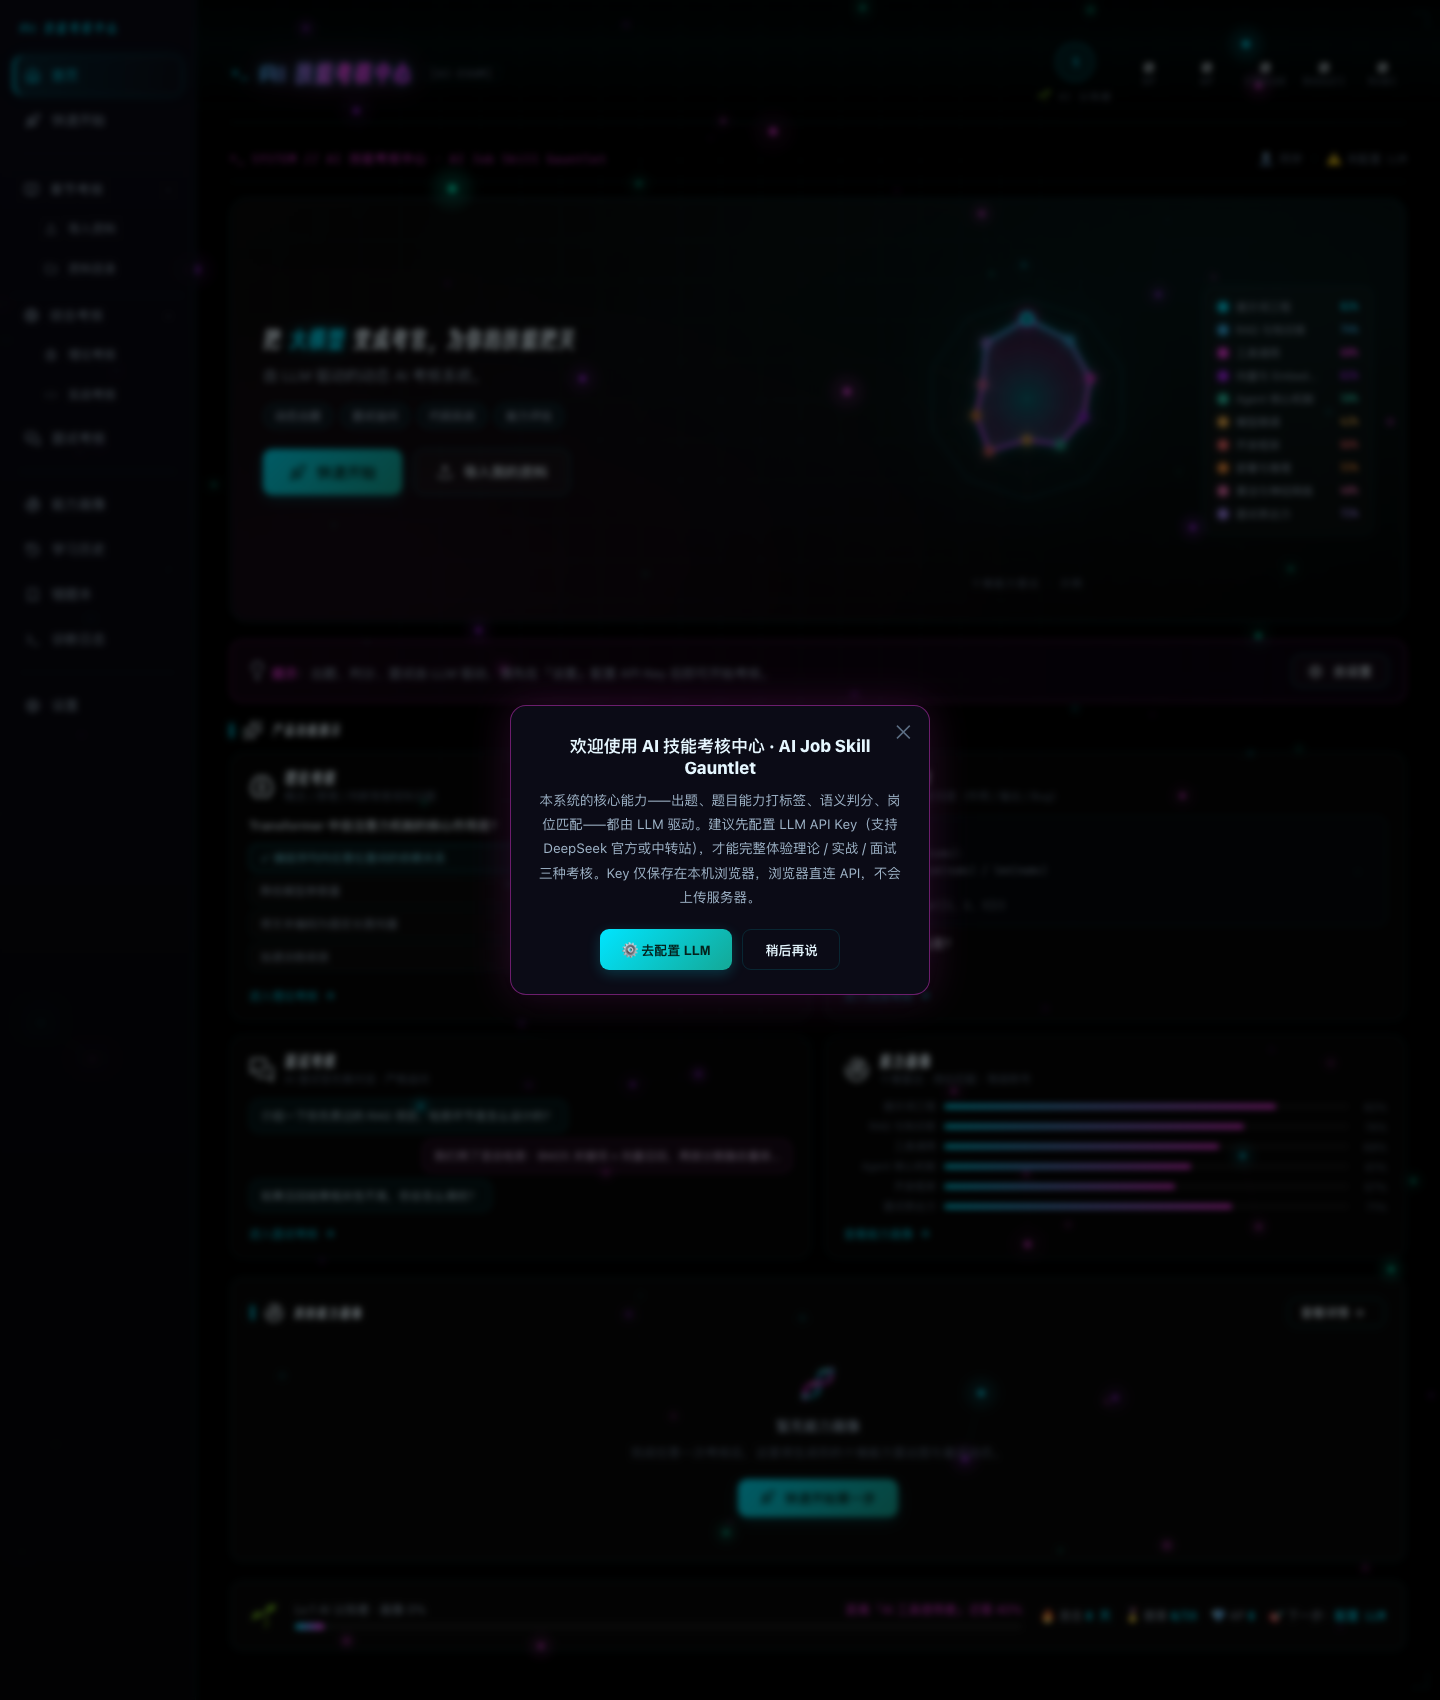
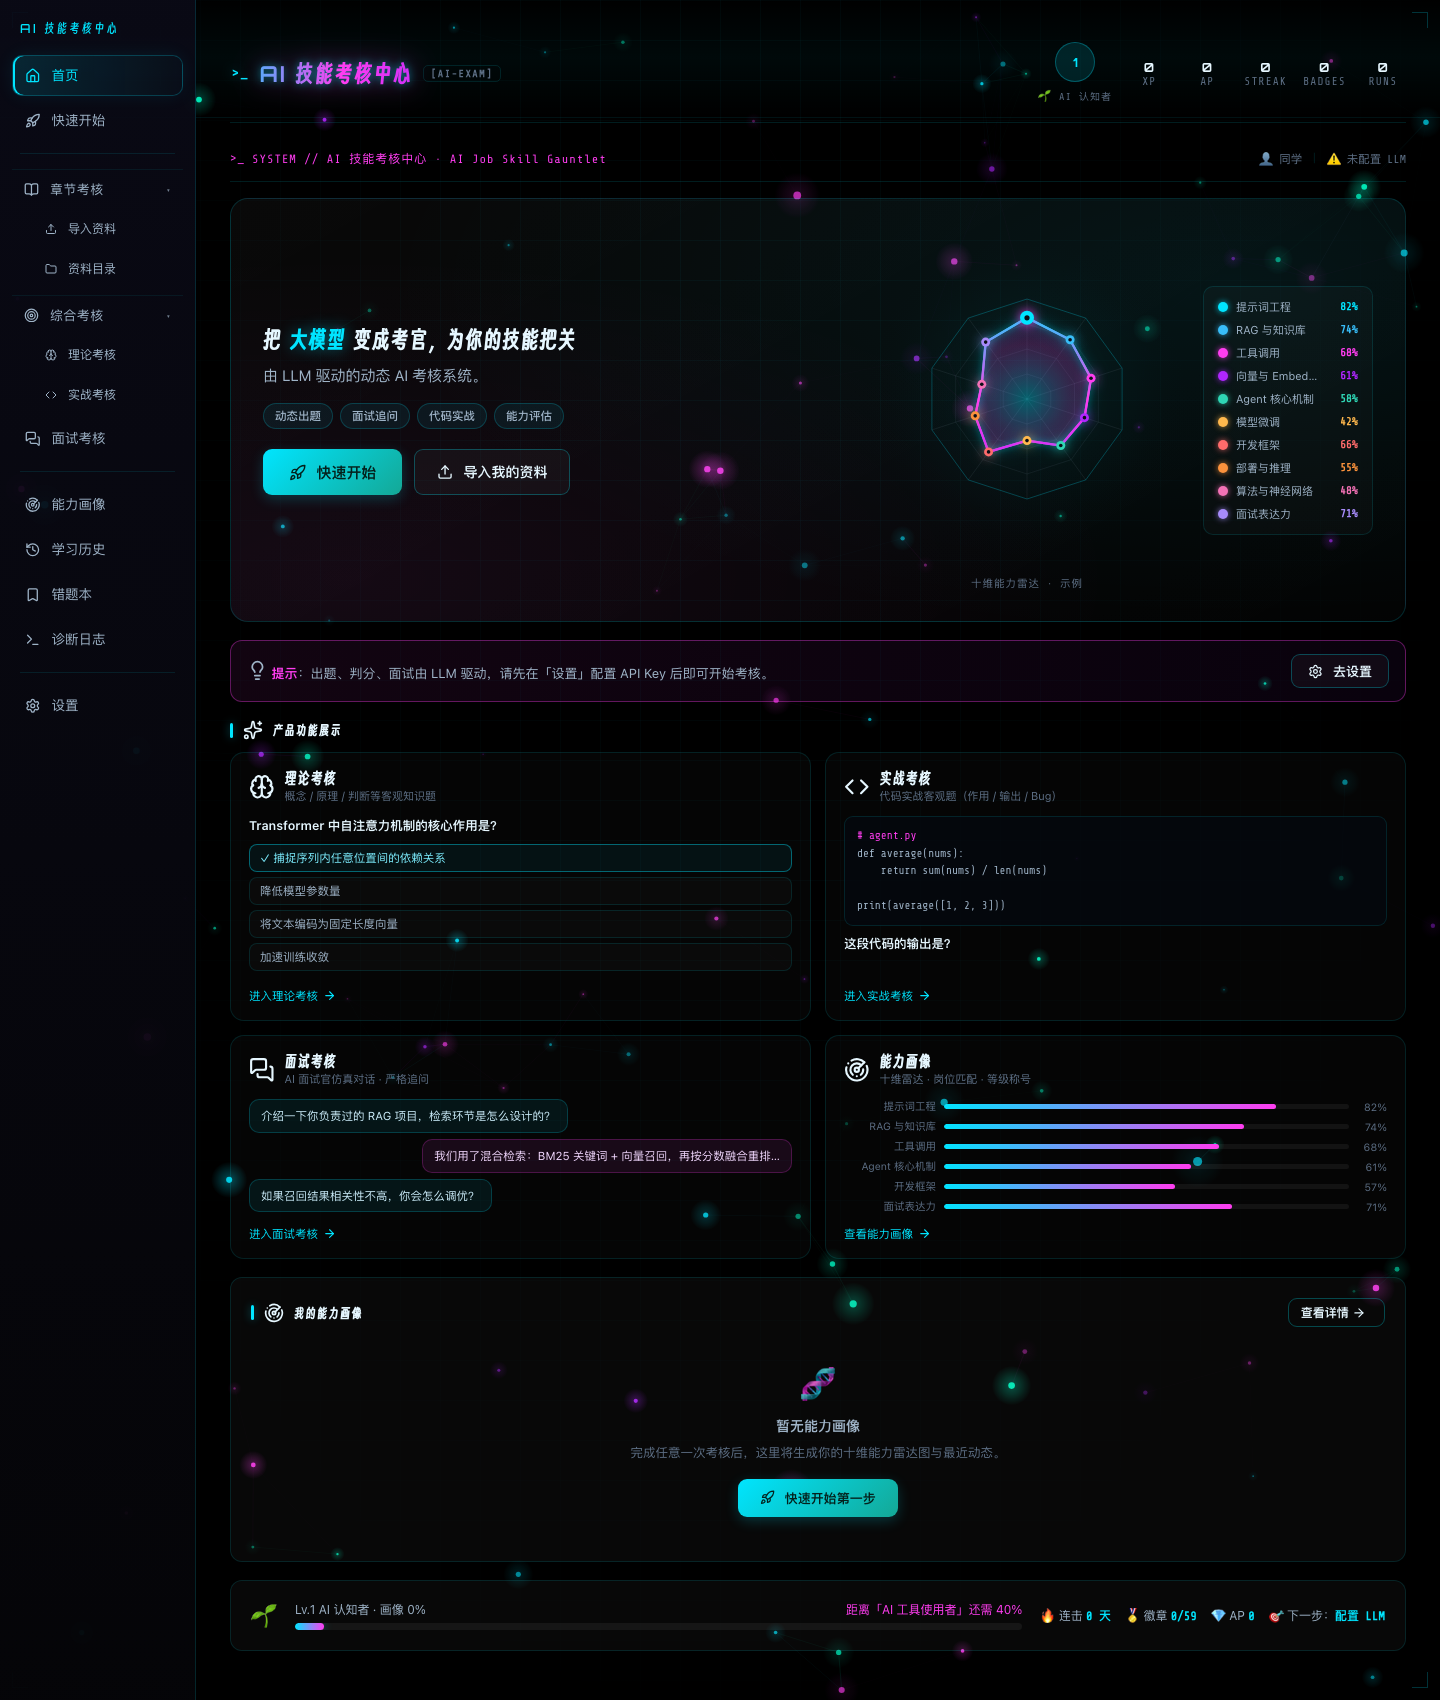
fix: 移除欢迎弹窗（未配置 LLM 引导改由首页顶条状态承担），重截完整首页截图

diff --git a/web/exam.js b/web/exam.js
@@ -4703,21 +4703,7 @@ async function init() {
   renderSidebar();   // 常驻左侧导航
   updateGamestat();
   goHome();
-  // 未配置 LLM → 弹一次性配置提醒（只弹一次，之后可在设置里随时配置）
-  if (!LLM_KEY && !localStorage.getItem("examCenter.llmGuided")) {
-    localStorage.setItem("examCenter.llmGuided", "1");
-    setTimeout(() => {
-      showModal({
-        iconHtml: icon("robot"),
-        title: "欢迎使用 AI 技能考核中心 · AI Job Skill Gauntlet",
-        text: "本系统的核心能力——出题、题目能力打标签、语义判分、岗位匹配——都由 LLM 驱动。建议先配置 LLM API Key（支持 DeepSeek 官方或中转站），才能完整体验理论 / 实战 / 面试三种考核。Key 仅保存在本机浏览器，浏览器直连 API，不会上传服务器。",
-        actions: [
-          { label: "⚙ 去配置 LLM", primary: true, onClick: () => showSettings() },
-          { label: "稍后再说", onClick: () => {} },
-        ],
-      });
-    }, 500);
-  }
+  // 欢迎弹窗已移除（v2.1.1）：未配置 LLM 的引导由首页顶条「⚠ 未配置 LLM」状态 + 设置页承担
 }
 
 document.addEventListener("DOMContentLoaded", init);
